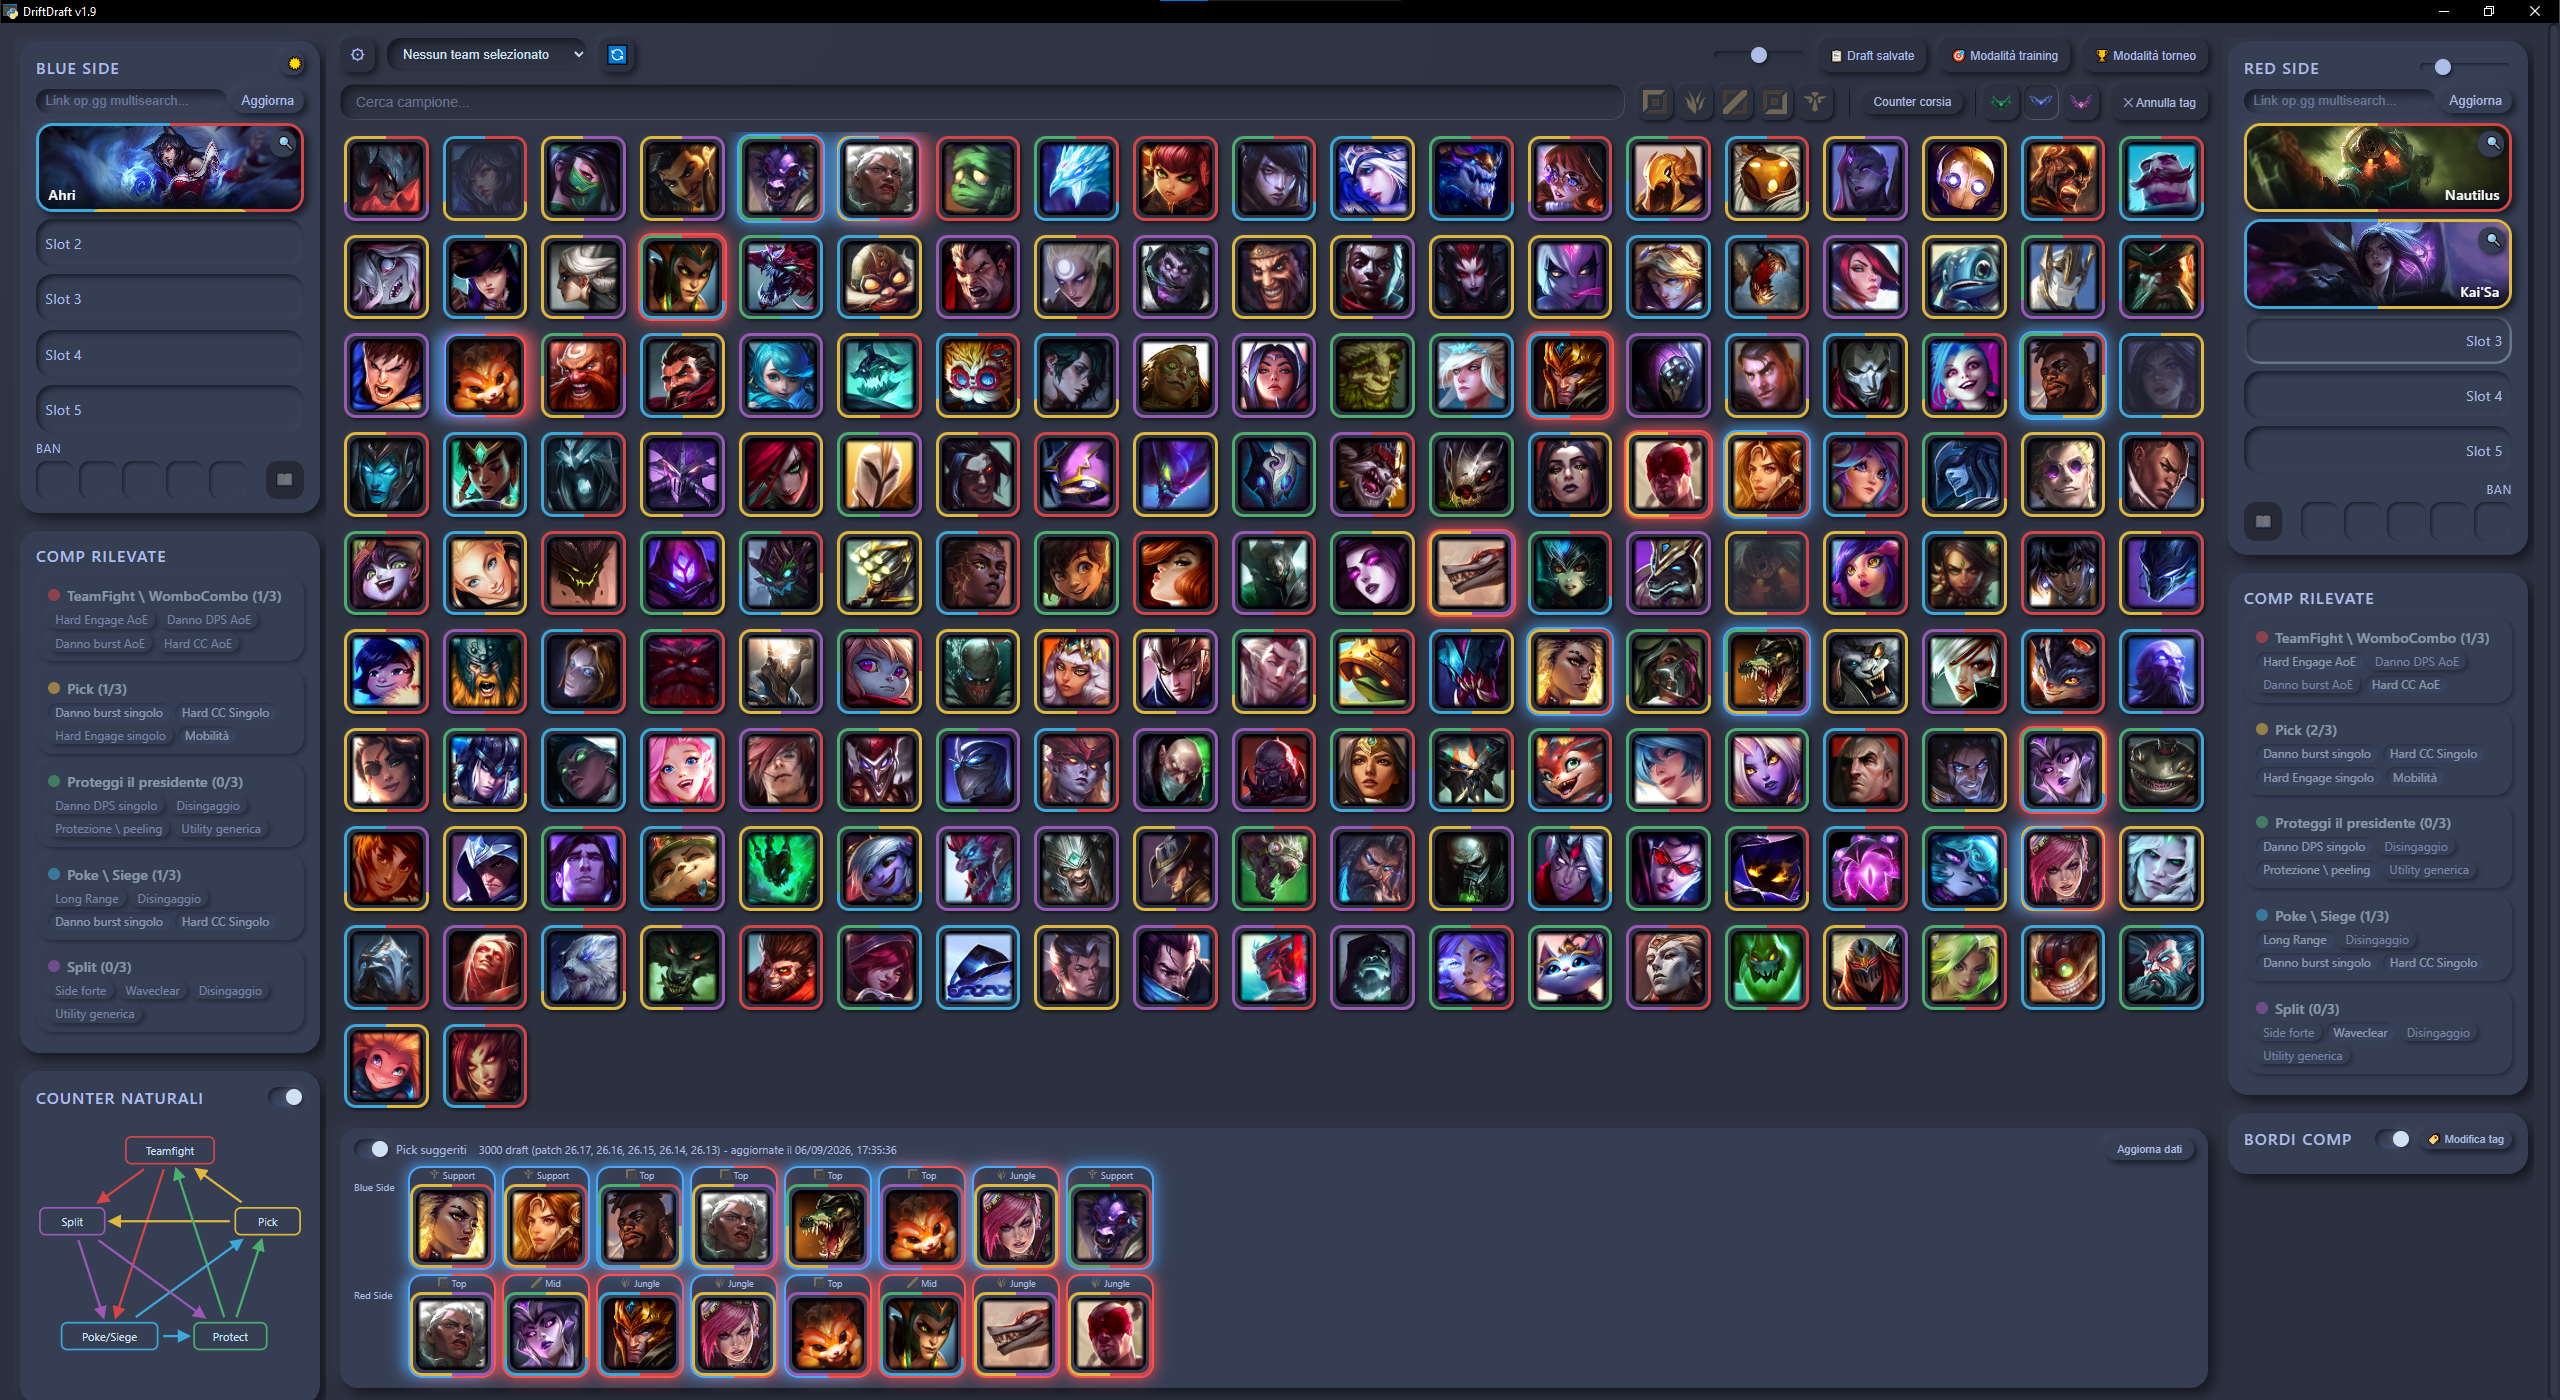
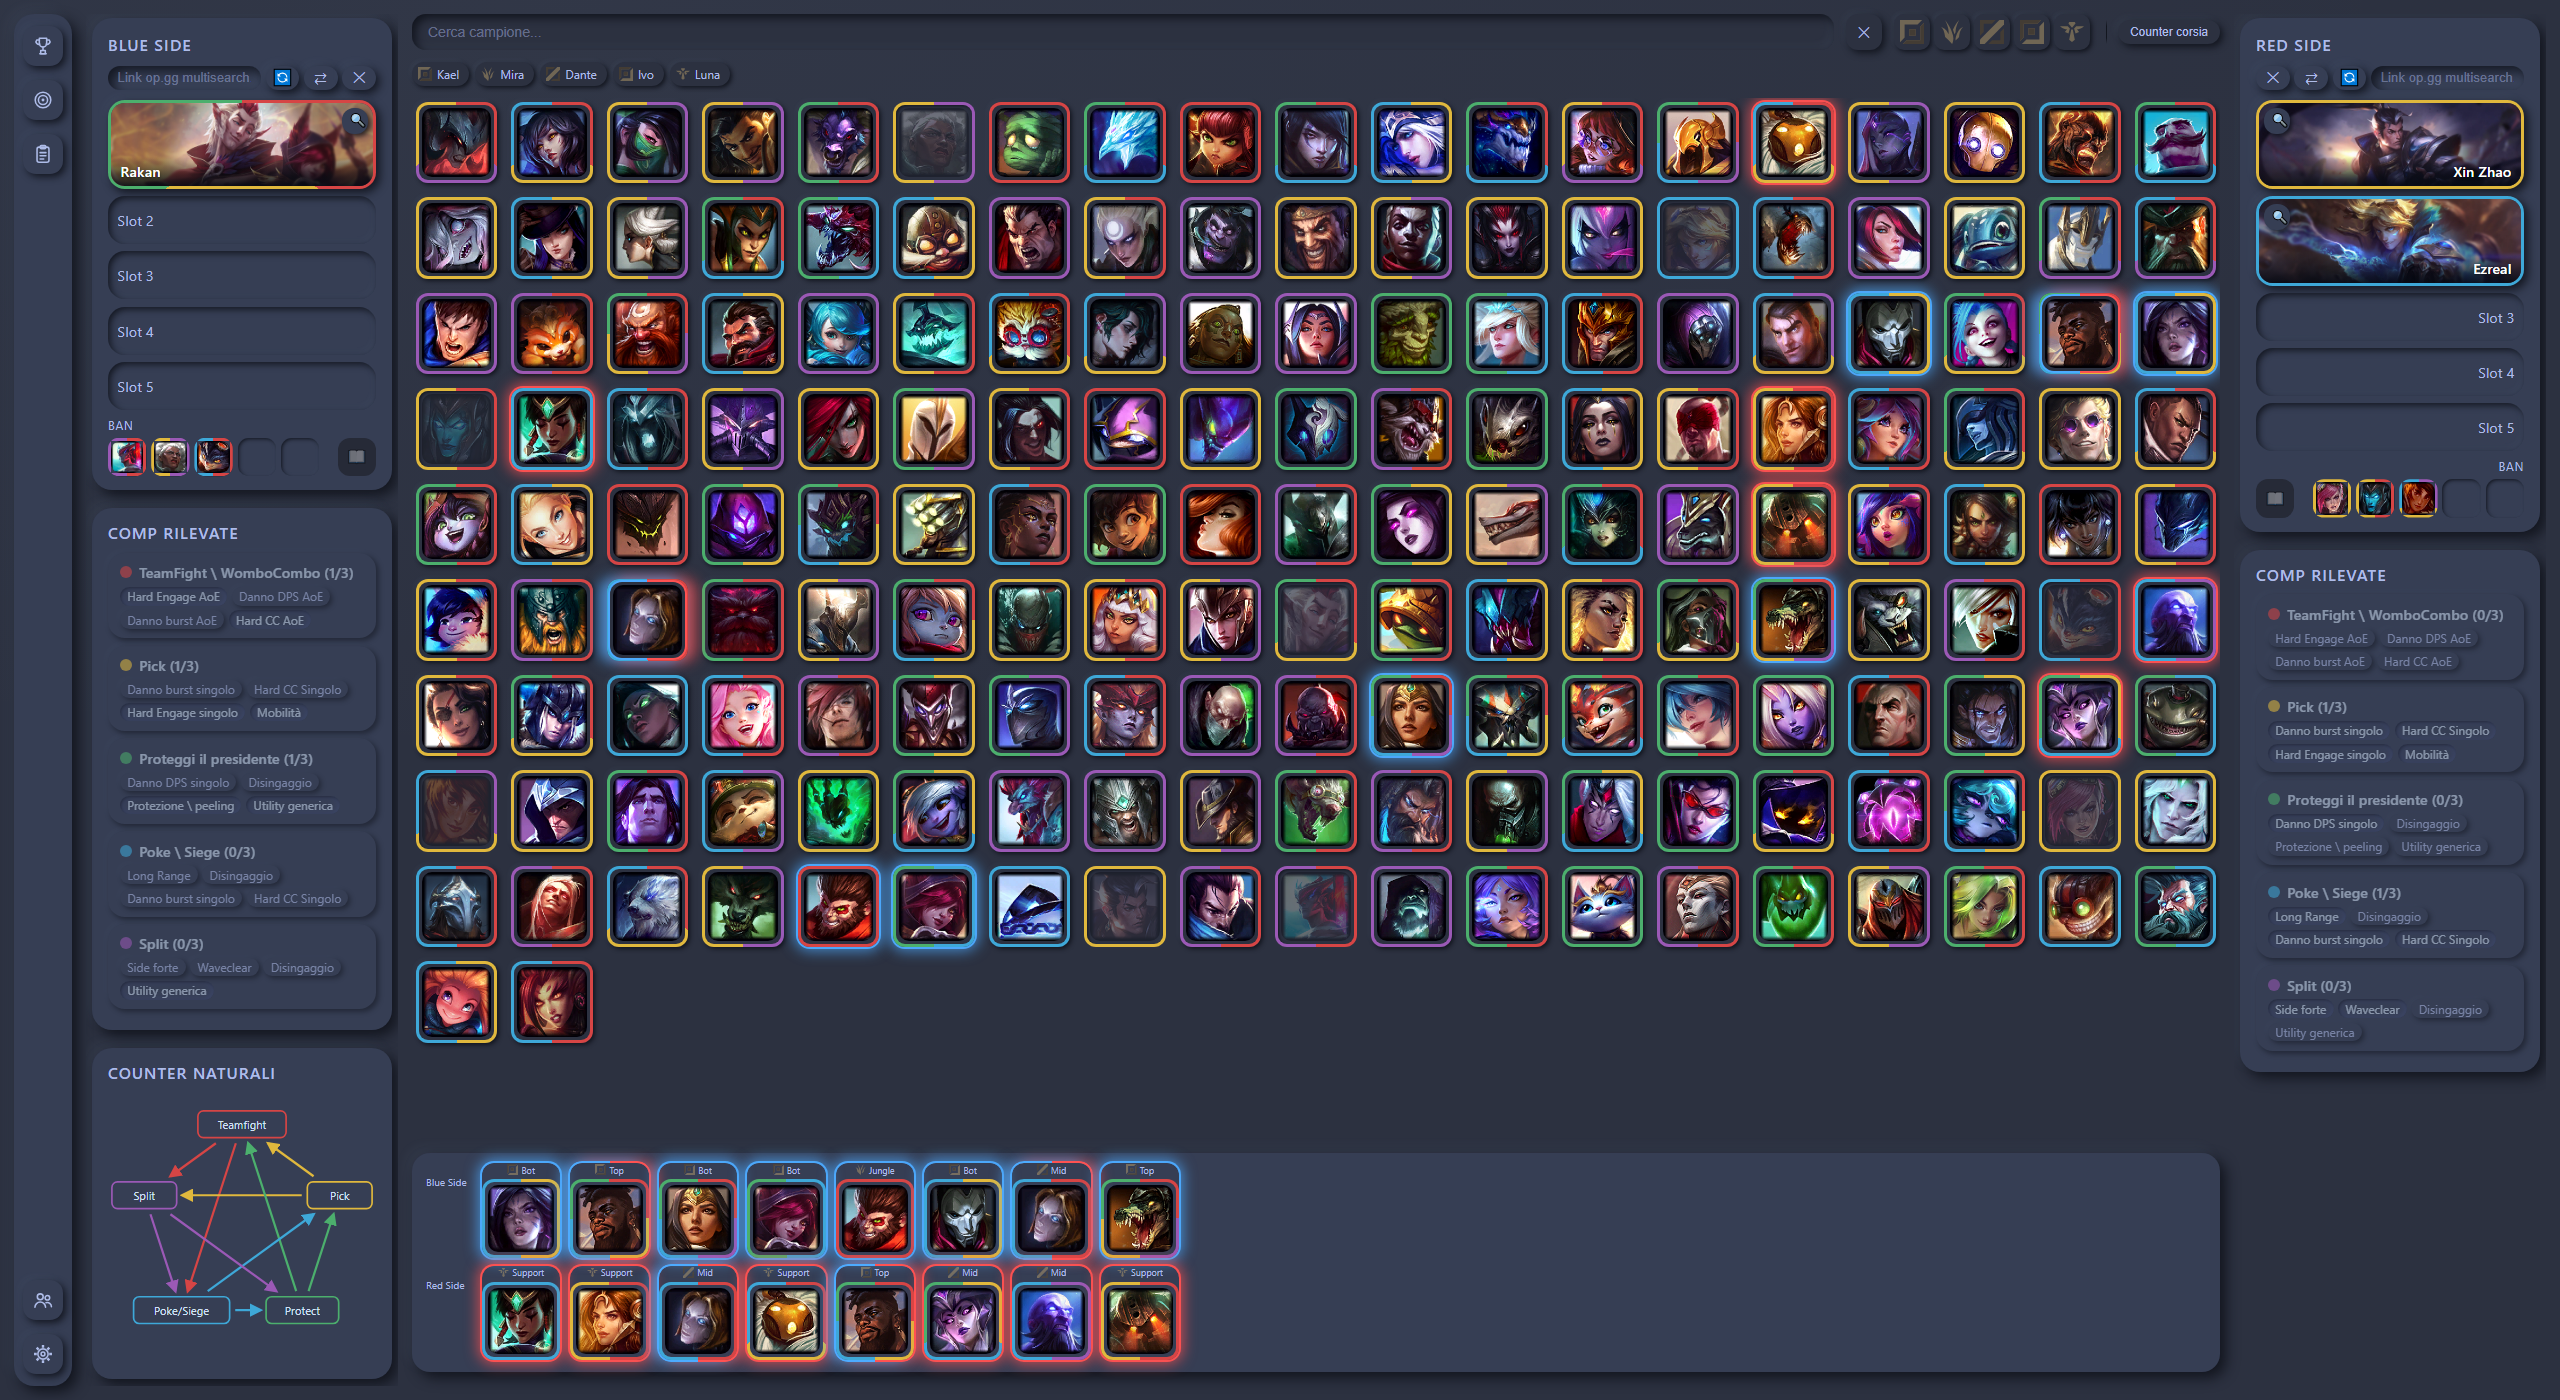
README e screenshot aggiornati alla 2.4
Gli screenshot erano ancora della 1.9: rifatti sull'interfaccia attuale
(barra a sinistra, nomi del team sotto la ricerca, pick suggeriti), con un
team inventato. Aggiunti i ban suggeriti e le Impostazioni; il testo dice dei
dati soloQ, della ricerca counter, del team di default e dell'aggiornamento
dall'app.

diff --git a/README.md b/README.md
@@ -5,7 +5,8 @@ composizioni stanno prendendo forma mentre draftate, quali pick convengono a
 ciascun lato, sia come preparazione che in tempo reale su drafter.lol, e ti allena contro un bot che gioca come una squadra vera.
 
 Gira sul tuo computer completamente in locale: **nessun dato esce dal tuo pc**, tranne le
-richieste che fai tu a op.gg, lolalytics, u.gg, Leaguepedia e drafter.lol.
+richieste che fai tu a op.gg, lolalytics, u.gg, Leaguepedia e drafter.lol (e a
+GitHub, quando controlli se c'è una versione nuova).
 
 ![La griglia campioni con una draft in corso](docs/1-main.png)
 
@@ -16,8 +17,14 @@ funzionali e appartenenze; i pannelli laterali dicono a colpo
 d'occhio cosa sta nascendo da una parte e dall'altra, e quali pezzi mancano
 ancora. Il pentagono dei counter naturali mostra quale comp batte quale.
 
-**Suggerisce i pick, per lato.** Il punteggio nasce da sinergie e counter
-osservati in 3000 draft professionistiche recenti.
+**Suggerisce pick e ban, per lato.** Il punteggio nasce da sinergie e counter
+osservati in 3000 draft professionistiche recenti; dove i pro non bastano
+(Briar, Evelynn e gli altri campioni che in competitivo non si vedono) entrano i
+dati soloQ di lolalytics. Durante i ban vedi i ban consigliati, durante i pick
+i pick: secondo la fase della draft.
+
+**Counter in un clic.** Dalla lente di uno slot trovi subito chi batte quel
+campione nella sua corsia, nella fascia elo che preferisci.
 
 **Allenamento contro pick veri.** Il bot impersona una
 squadra pro vera, scelta da te o a sorte fra 197, pescando fra quello che
@@ -27,6 +34,7 @@ capisce cosa stai provando a fare e prova ad anticiparti.
 **Capire la tua squadra.** Nel roster tieni i tuoi giocatori con la loro tier
 list personale — S per gli OTP, giù fino a D per quelli da evitare — e i
 suggerimenti per il tuo lato escono da lì, in alternativa basta un op.gg del tuo team nel giusto side.
+Scegli un team di default e DriftDraft lo carica da solo a ogni avvio.
 Inoltre, con un link op.gg si possono ottenere i dati avversari in automatico, con pick consigliati aggiornati di conseguenza.
 
 **Si collega a una draft vera.** In modalità torneo specchia in tempo reale
@@ -34,10 +42,14 @@ una draft room di [drafter.lol](https://drafter.lol) e manda le tue selezioni
 come azioni sulla draft, con supporto alla fearless draft.
 
 # Qualche esempio:
+![Ban suggeriti nella seconda fase di ban](docs/5-ban_suggeriti.png)
+
 <img src="docs/3-training_pre-select.png" alt="Scelta della squadra avversaria" width="420">
 
 ![Modalità training contro una squadra pro](docs/2-training.png)
 ![Roster e tier list per giocatore](docs/4-team_esempio_tierlist.png)
+
+<img src="docs/6-impostazioni.png" alt="Impostazioni" width="420">
 
 ## Installazione
 
@@ -47,6 +59,9 @@ dentro c'è tutto, funziona da subito.
 
 Al primo avvio scarica le immagini dei campioni (~21 MB, un minuto scarso):
 serve una connessione, e si fa una volta sola.
+
+Dalla 2.4 si aggiorna dall'app: Impostazioni → Aggiorna DriftDraft. Le tue
+squadre e le draft salvate restano.
 
 Per lavorare sul codice invece che usarlo, vedi
 [CONTRIBUTING.md](CONTRIBUTING.md).
